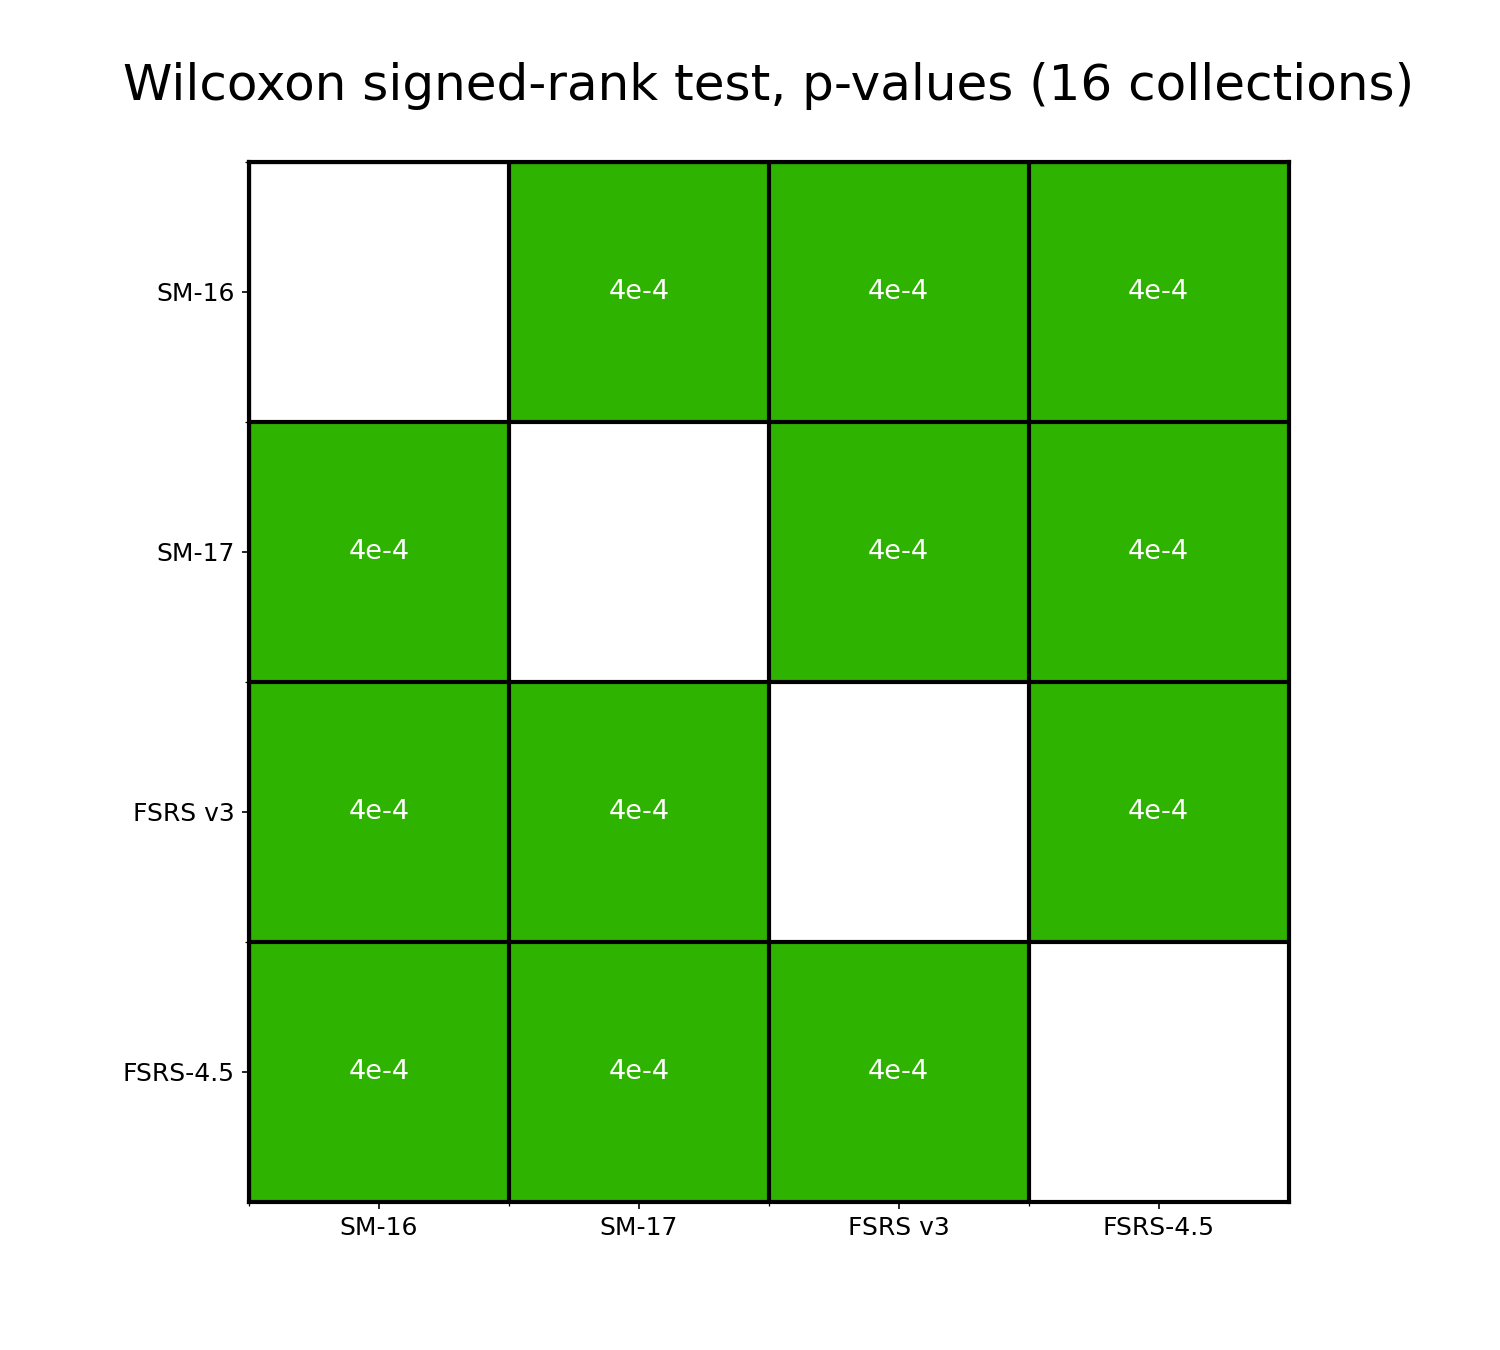
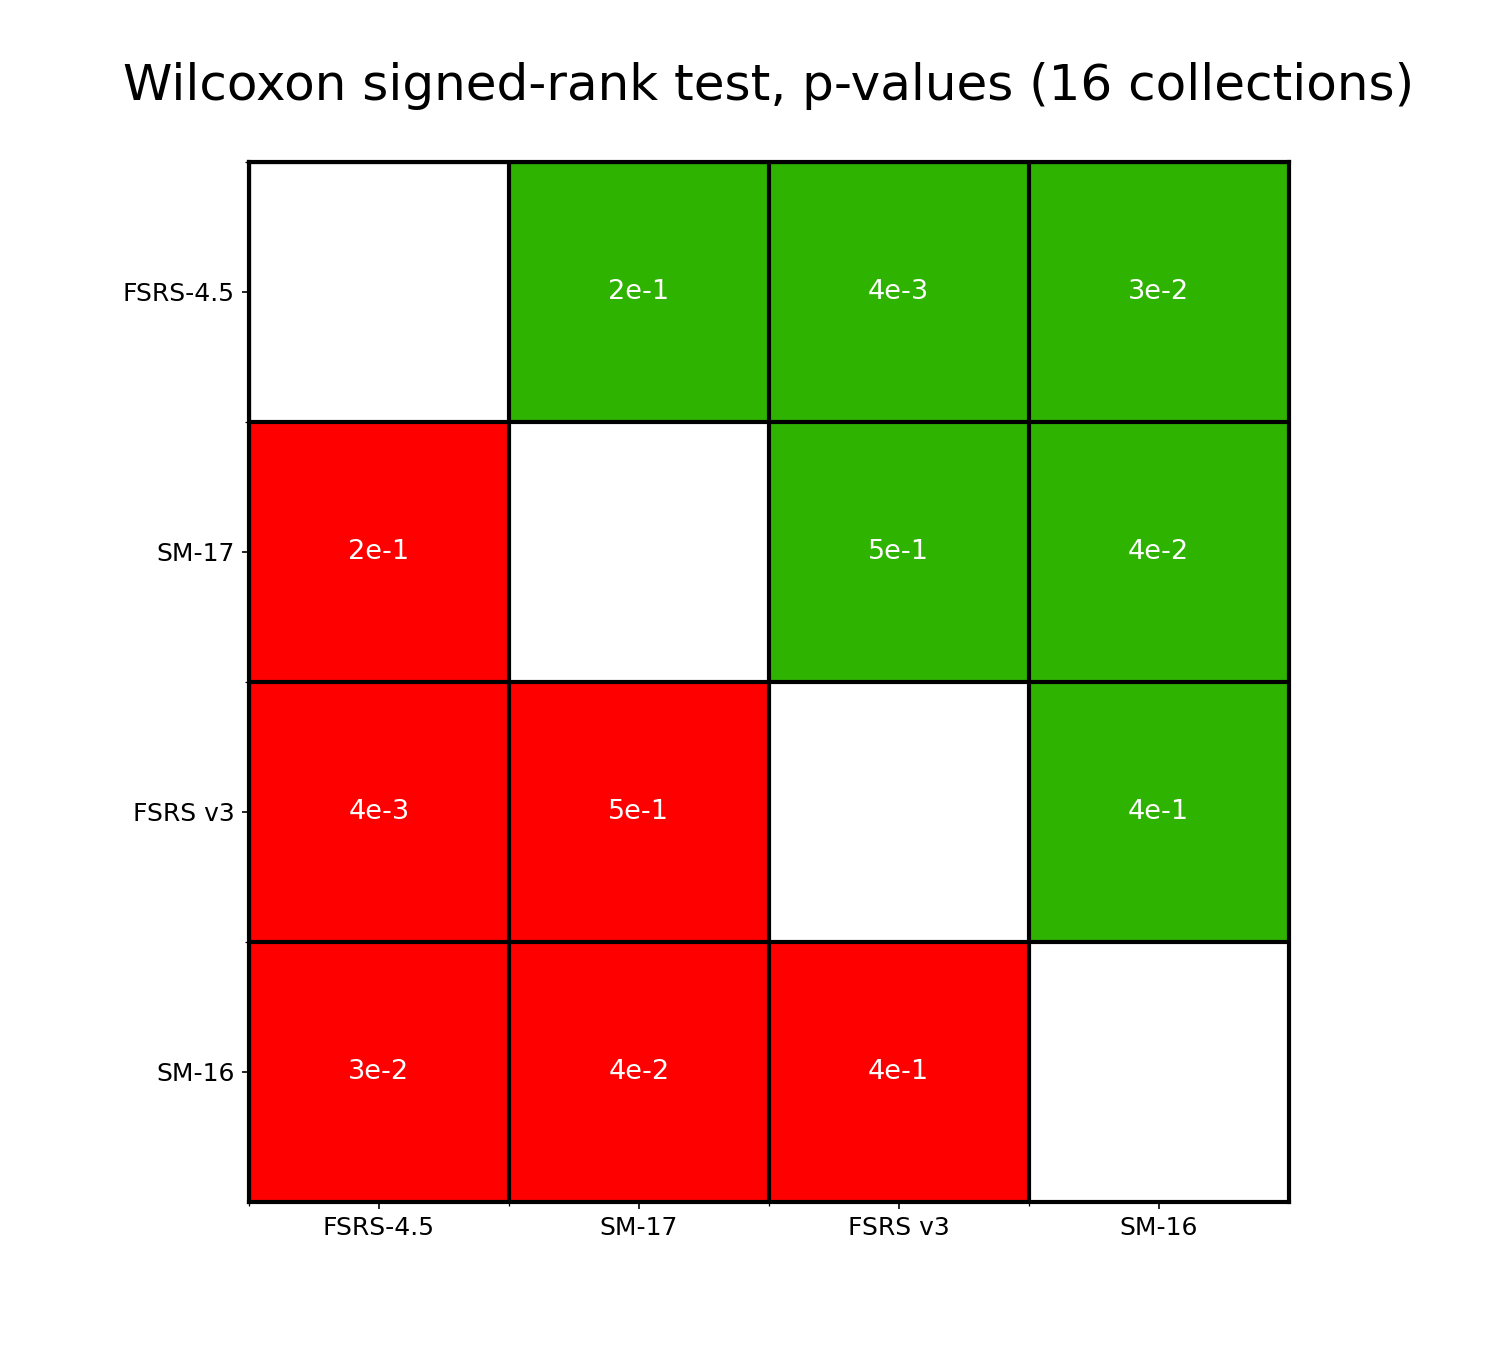
fix bug

diff --git a/significance_table.py b/significance_table.py
@@ -107,16 +107,20 @@ def format(exponent, n):
 
 
 if __name__ == "__main__":
-    models = ("SM16", "SM17", "FSRSv3", "FSRS-4.5")
+    models = (
+        "FSRS-4.5",
+        "SM17",
+        "FSRSv3",
+        "SM16",
+    )
     csv_name = f"{len(models)} models.csv"
     print(f"Number of tests={(len(models)-1) ** 2}")
     df = pd.DataFrame()
     sizes = []
-    result_dir = pathlib.Path("./result")
-    result_files = result_dir.glob("*.json")
     for model in models:
         RMSE = []
         logloss = []
+        result_files = pathlib.Path("./result").glob("*.json")
         for result_file in result_files:
             with open(result_file, "r") as f:
                 result = json.load(f)
@@ -159,7 +163,6 @@ if __name__ == "__main__":
                 df2 = df[f"{models2[j]}, RMSE (bins)"]
                 result = logp_wilcox(df1[:n_collections], df2[:n_collections])
                 wilcox[i][j] = result[0]
-
     color_wilcox = [[-1 for i in range(n)] for j in range(n)]
     for i in range(n):
         for j in range(n):
